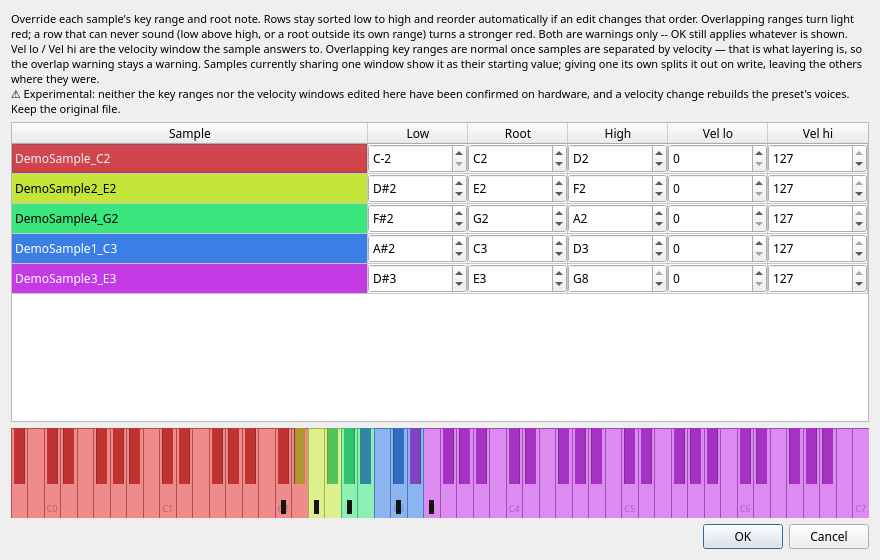
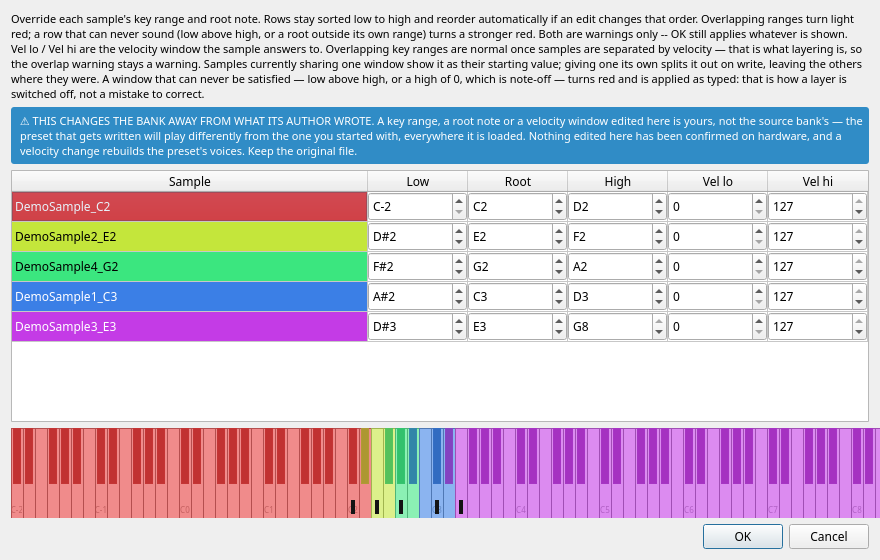
tools: a modal is a hang, and the screenshot tool had no answer for one
`_stage()` calls `add_presets()`, which checks the playback ceiling. The demo
library is built from full-range sine tones, so `DemoSample-C2_C2` reaches key
127 and master's ceiling warning fires -- and `exec()` under offscreen Qt
blocks forever with nobody to click it. The run sat there producing nothing
until it was killed: 400 s, then 1500 s, no output and no clue.

`QMessageBox.exec` now answers Yes and PRINTS what it dismissed. Silently
answering would be indistinguishable from the dialog never firing, and the
next person to add a shot would have no way to tell which state the picture
was taken in.

Not a defect of this branch -- master 8377ee1 introduced the box this tool
trips over -- but the tool is tracked and has to work on this branch to
regenerate what this branch changed. If that fix belongs on master instead,
it is a two-hunk move.

`12_bank_placement.png` regenerated, and it now shows what the README claims:
the deviation banner in its own highlighted strip, and a keyboard running
C-2 to C8 rather than stopping at C8 with keys 117 to 127 off the right-hand
edge. Verified from the widget's own geometry rather than by eye: key 0 at
x=0, key 127 ending exactly at the widget's width, 75 white keys, 11 octave
labels.

diff --git a/tools/make_screenshots.py b/tools/make_screenshots.py
@@ -128,6 +128,28 @@ def _isolate() -> None:
     assert mw.user_data_dir() != real_home, "data dir was not redirected"
     print(f"  isolated: index db -> {data}")
 
+    # A MODAL IS A HANG HERE, and this tool had no answer for one.
+    #
+    # `_stage()` calls `add_presets()`, which checks the playback ceiling, and
+    # the demo library is built from full-range sine tones -- so `DemoSample`
+    # reaches key 127 and `master` 8377ee1's ceiling warning fires. `exec()`
+    # under offscreen Qt blocks forever with nobody to click it, so the run
+    # sat there until it was killed: 400 s, then 1500 s, no output.
+    #
+    # The stub answers "Yes" and SAYS SO. A dialog that is dismissed silently
+    # is indistinguishable from one that never fired, and the next person to
+    # add a shot has no way to tell which state the picture was taken in.
+    from PySide6.QtWidgets import QMessageBox
+
+    real_exec = QMessageBox.exec
+
+    def _auto(self, *a, **k):
+        print(f"  [auto-dismissed modal] {self.windowTitle()!r}: "
+              f"{self.text().splitlines()[0][:90] if self.text() else ''}")
+        return QMessageBox.StandardButton.Yes.value
+    QMessageBox.exec = _auto
+    globals()["_REAL_QMESSAGEBOX_EXEC"] = real_exec
+
 
 def _window():
     from PySide6.QtWidgets import QApplication
